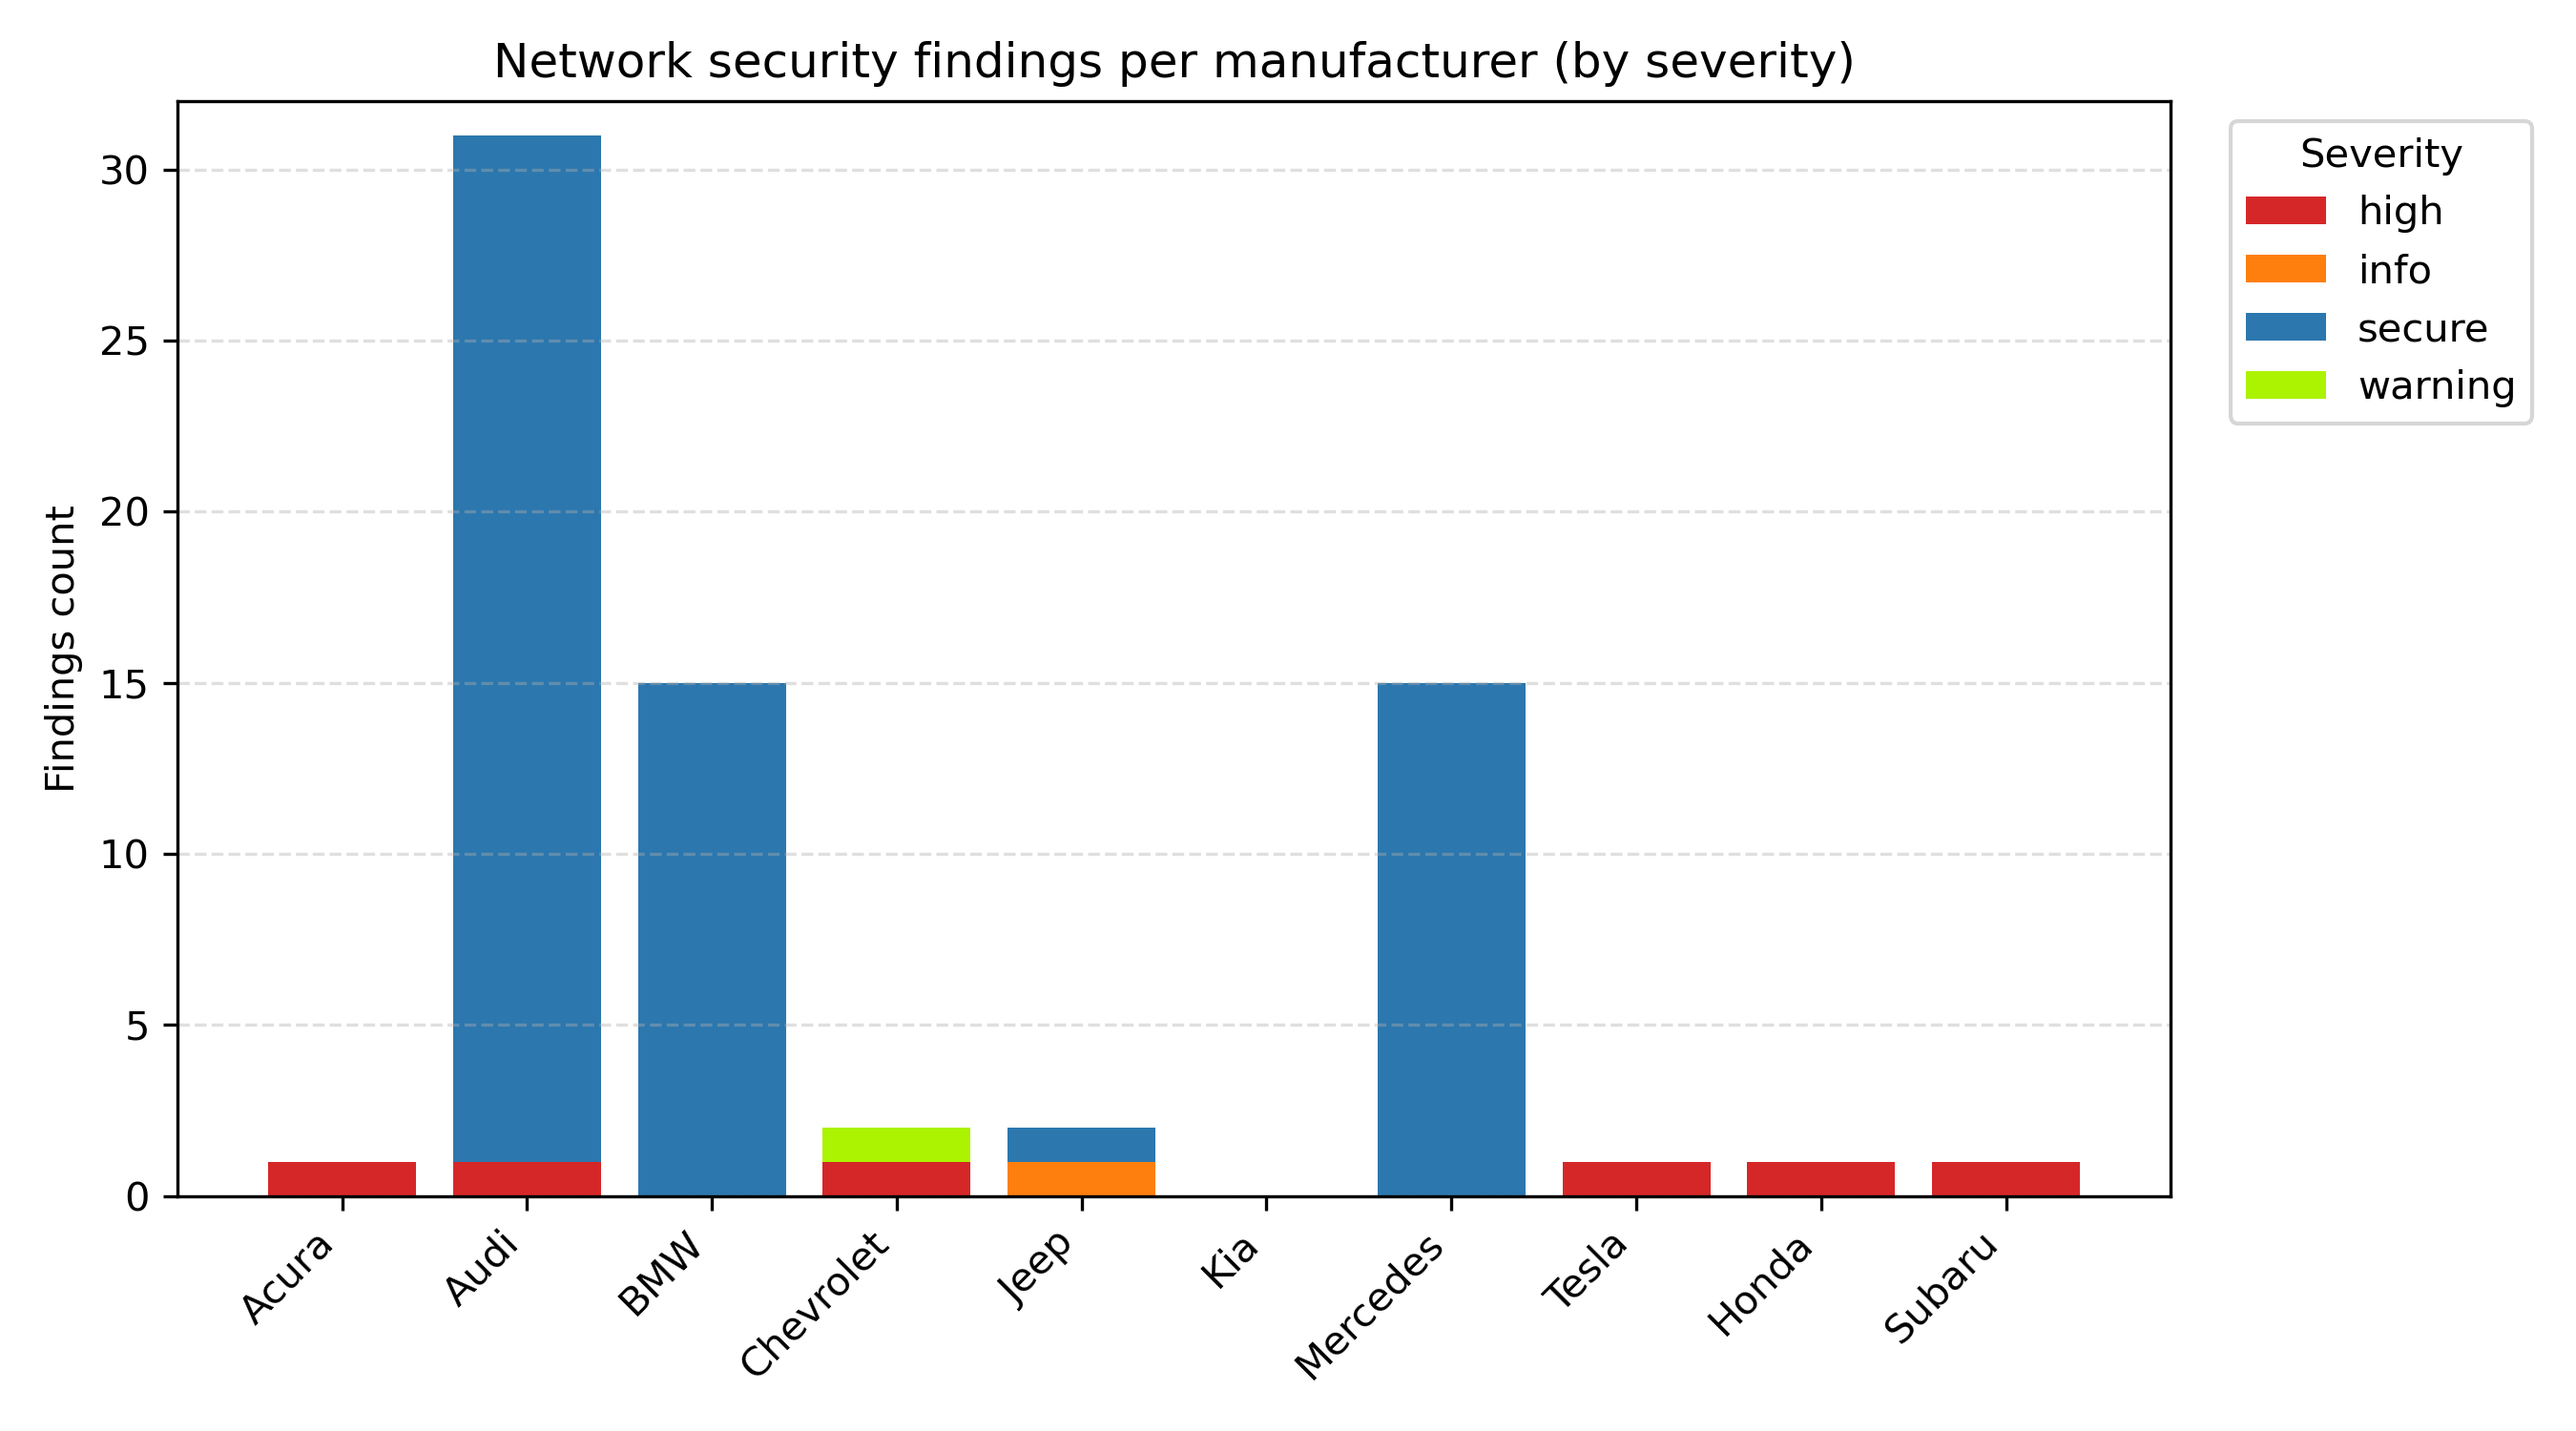
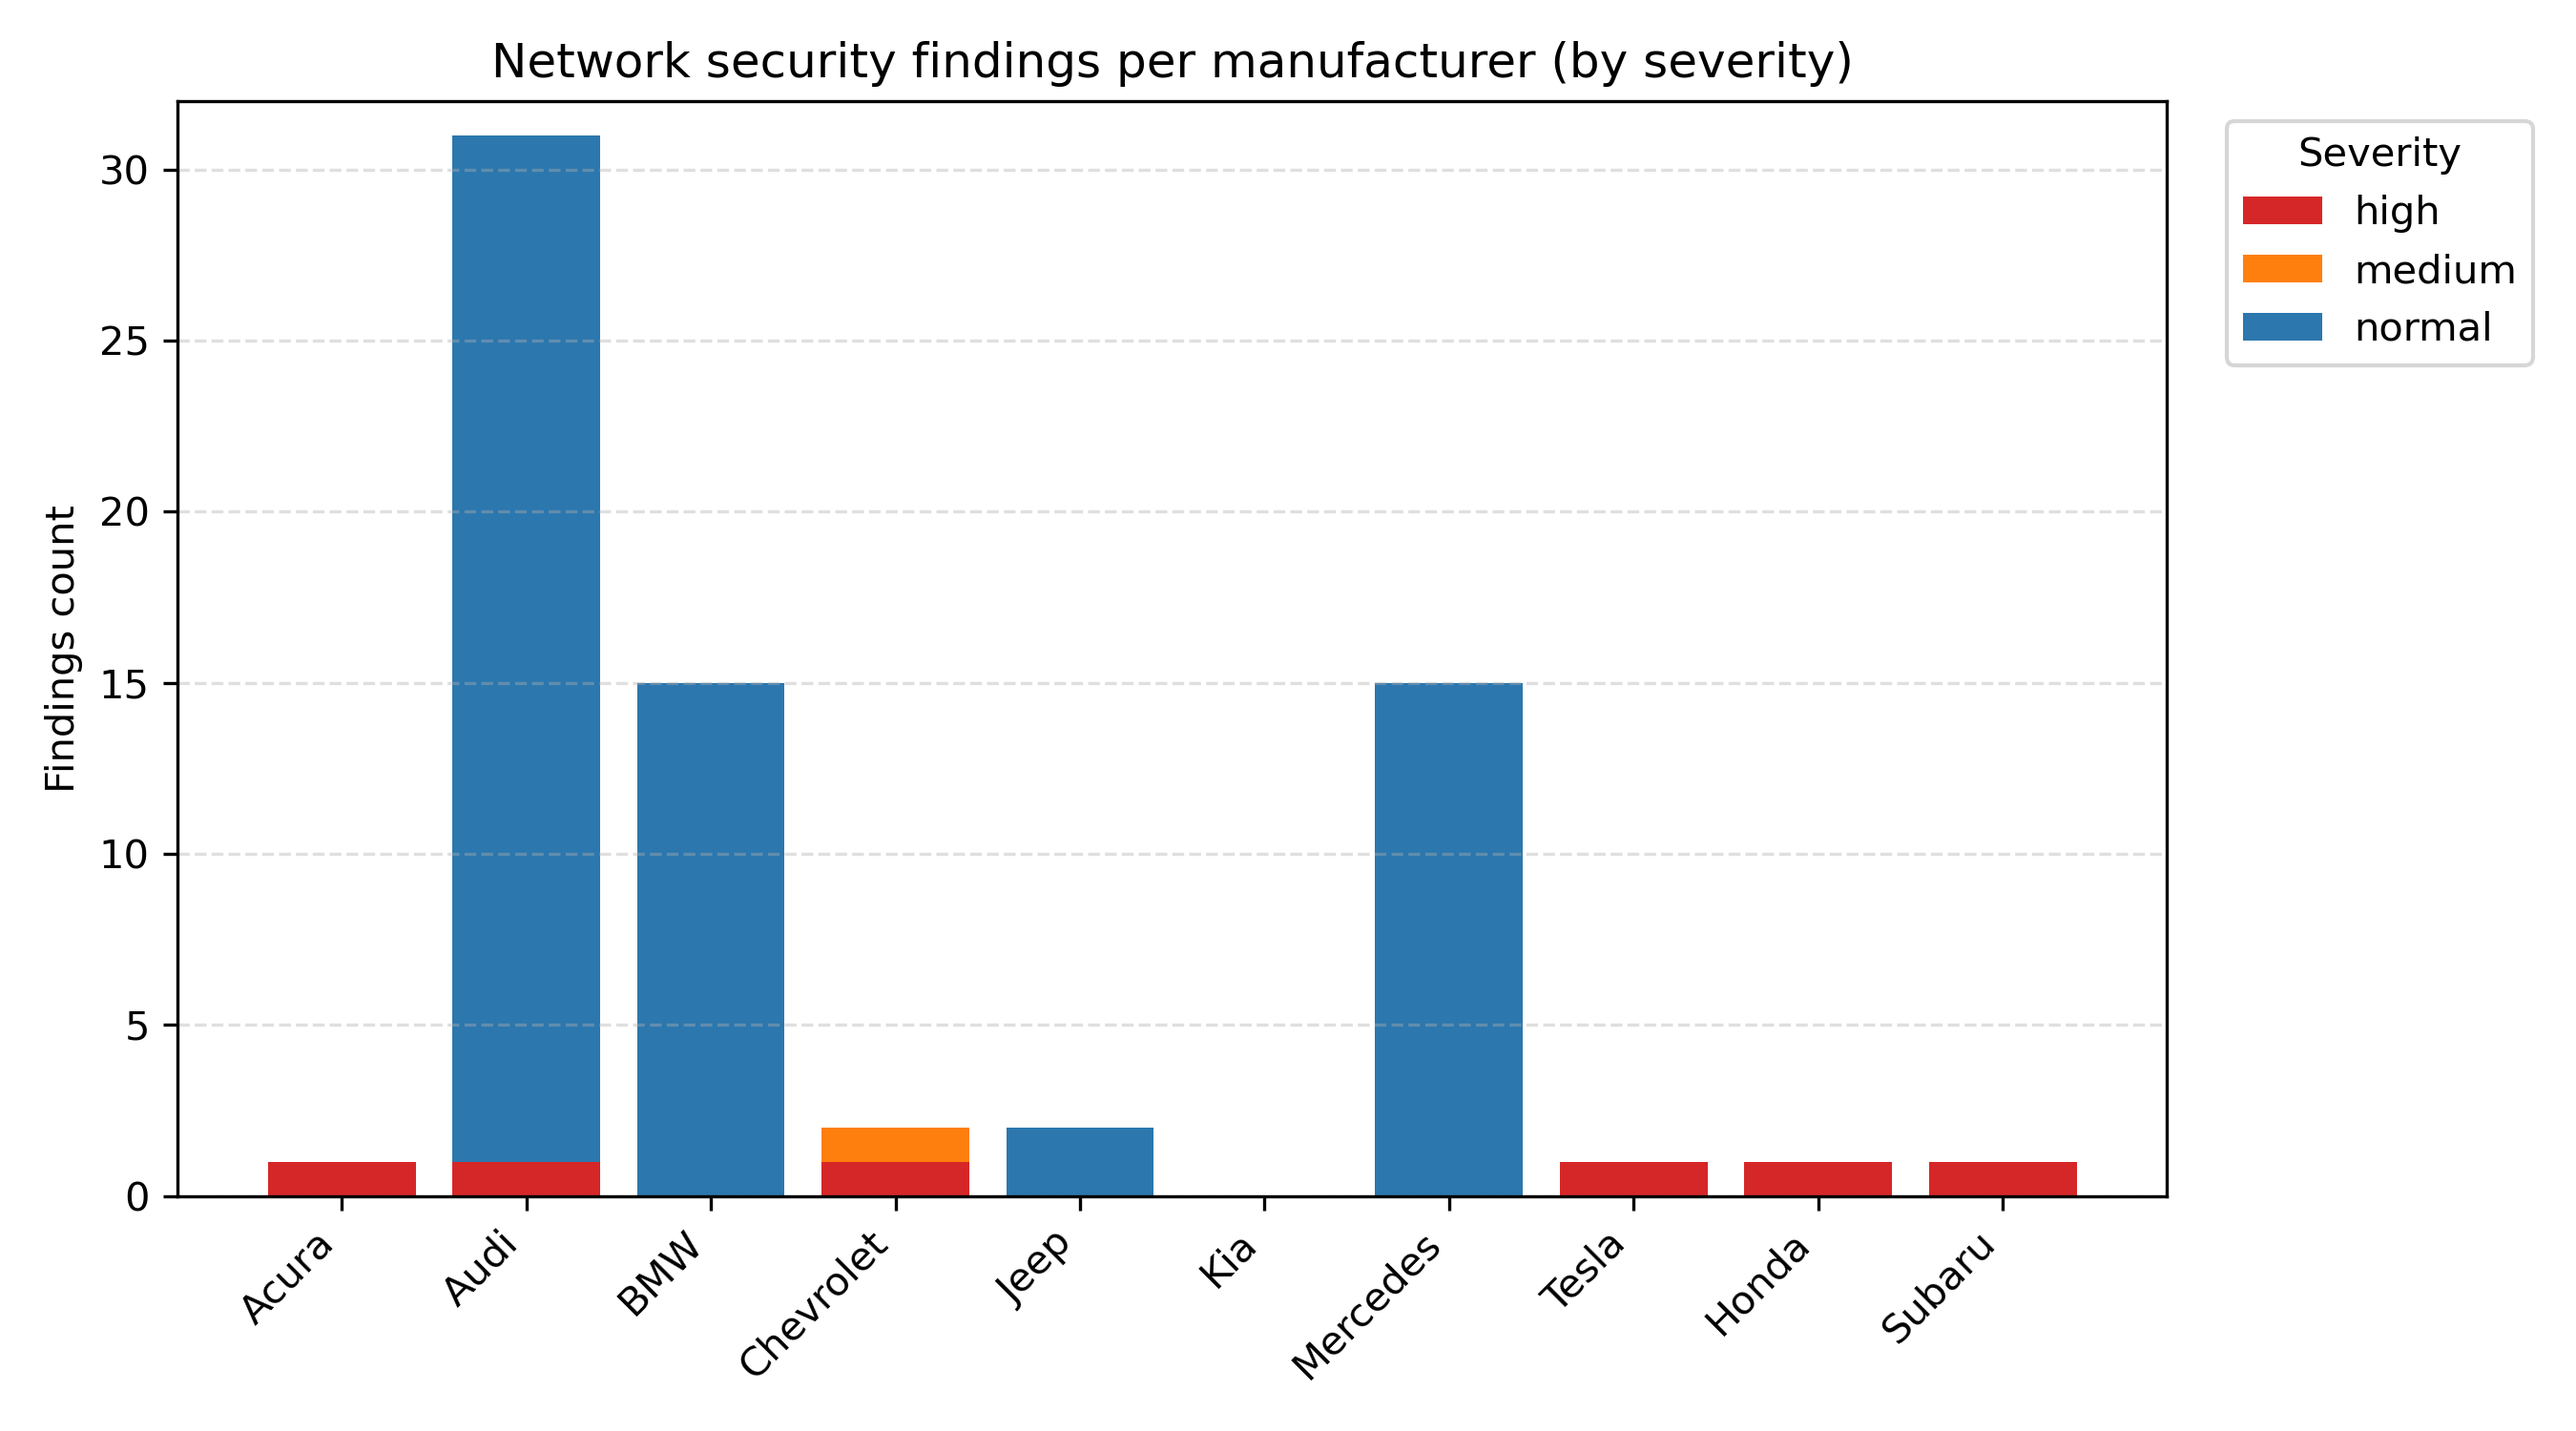
network_security now uses our scoring

diff --git a/src/utils/network_analysis.py b/src/utils/network_analysis.py
@@ -10,6 +10,7 @@ import matplotlib.pyplot as plt
 import pandas as pd
 
 from apps import available_apps
+from utils import scoring
 
 PROJECT_ROOT = SRC_PATH.parent
 GENERATED_ROOT = SRC_PATH / "generated"
@@ -31,8 +32,15 @@ def handle_score_network_security(dataframe: pd.DataFrame) -> dict[str, int]:
     # normalize severity values
     sev_series = sev_col.fillna("unknown").astype(str).str.strip().str.lower()
     counts = sev_series.value_counts().to_dict()
+
+    # Map severity to the scoring module's risk levels
+    mapped_counts: dict[str, int] = {}
+    for sev, count in counts.items():
+        risk_level = scoring.map_to_risk(sev)
+        mapped_counts[risk_level] = mapped_counts.get(risk_level, 0) + count
+
     # ensure keys are str
-    return {str(k): int(v) for k, v in counts.items()}
+    return {str(k): int(v) for k, v in mapped_counts.items()}
 
 
 def load_network_counts(base_path: Path = PROJECT_ROOT) -> dict[str, dict[str, int]]:

diff --git a/src/utils/scoring.py b/src/utils/scoring.py
@@ -11,6 +11,7 @@ DEFAULT_STATUS_MAPPING: Mapping[str, str] = {
     "normal": "normal",
     "secure": "normal",
     "info": "normal",
+    "warning": "medium",
 }
 
 def normalize_token(value: object) -> str:
